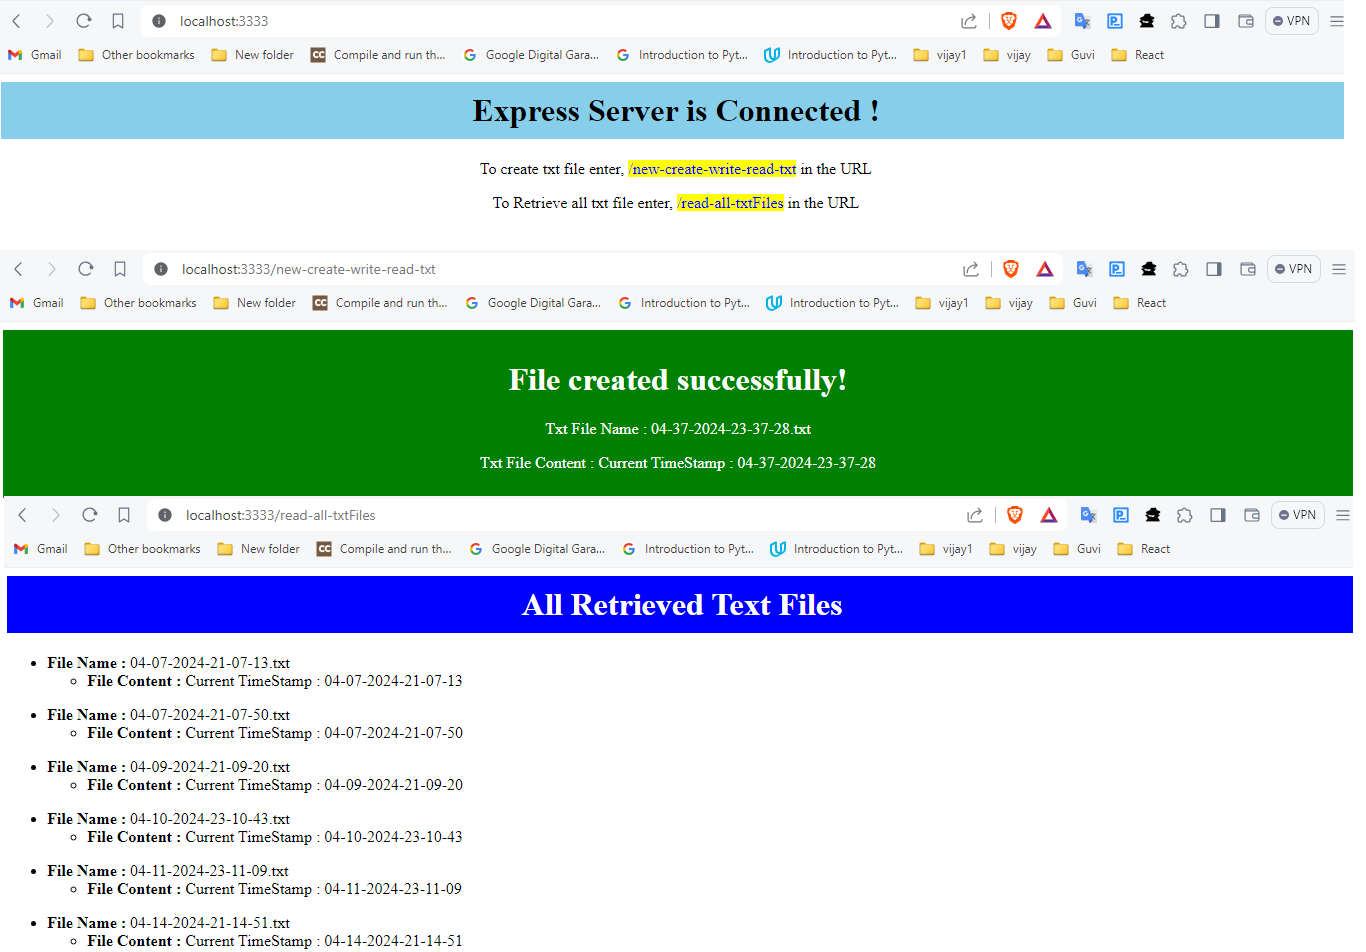
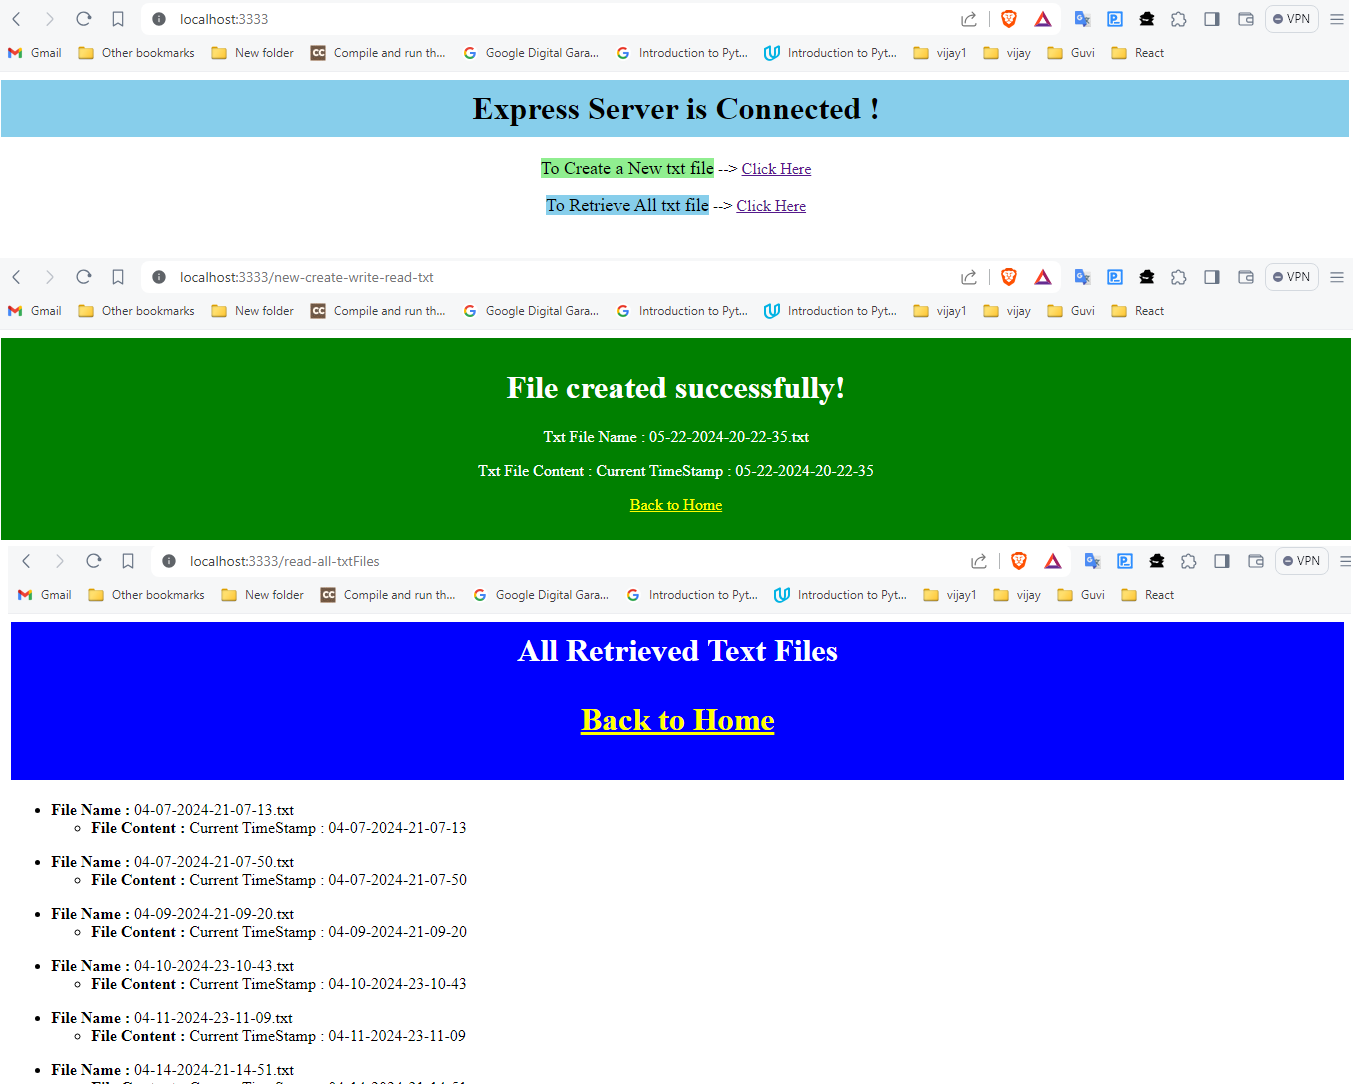
Updating File-System Task Files

Changed region(s): [[0.0, 0.2437, 1.0, 1.0], [0.0, 0.0, 1.0, 0.2437]]

diff --git a/index.js b/index.js
@@ -23,12 +23,14 @@ app.get('/', (req, res)=>{
     <h1 style="background-color:skyblue;padding:10px 0px;text-align:center">
     Express Server is Connected !</h1>
     <div style="text-align:center">
-    <p>To create txt file enter, <span style="background-color:yellow;color:blue">/new-create-write-read-txt</span> in the URL</p>
-    <p>To Retrieve all txt file enter, <span style="background-color:yellow;color:blue">/read-all-txtFiles</span> in the URL</p>
+    <p><span style="background-color:lightgreen;font-size:18px"> To Create a New txt file</span> --> <a href="/new-create-write-read-txt">Click Here</a></p>
+    <p><span style="background-color:skyblue;font-size:18px">To Retrieve All txt file</span> --> <a href="/read-all-txtFiles">Click Here</a></p>
     </div>
     `);
     
 });
+
+
 
 
 //Creating new data-time.txt file andread it's inside content
@@ -56,6 +58,7 @@ app.get('/new-create-write-read-txt',(req, res)=>{
         <h1>File created successfully!</h1>
         <p>Txt File Name : ${currentTimeStamp}.txt</p>
         <p>Txt File Content : ${data}</p>
+        <p><a href="/" style="color:yellow">Back to Home</a></p>
         </div>`);
     }catch(err){
 
@@ -79,9 +82,9 @@ app.get('/read-all-txtFiles', (req, res) => {
 
         // Sending response status and data
         res.status(200).send(`<h1 style="background-color:blue;padding:10px 0px;text-align:center;color:white">
-        All Retrieved Text Files</h1><ul>${txtFiles.map(file => 
+        All Retrieved Text Files<p><a href="/" style="color:yellow">Back to Home</a></p></h1><ul>${txtFiles.map(file => 
             `<dl style="display: list-item;list-style-type: disc;">
-            <dt ><b>File Name : </b>${file}</dt>
+            <dt><b>File Name : </b>${file}</dt>
             <dd style="display: list-item;list-style-type: circle;"><b>File Content : </b>${fs.readFileSync(`./TimeStamp/${file}`, 'utf8')}</dd>
             </dl>`).join('')}</ul>`);
     } catch (err) {
